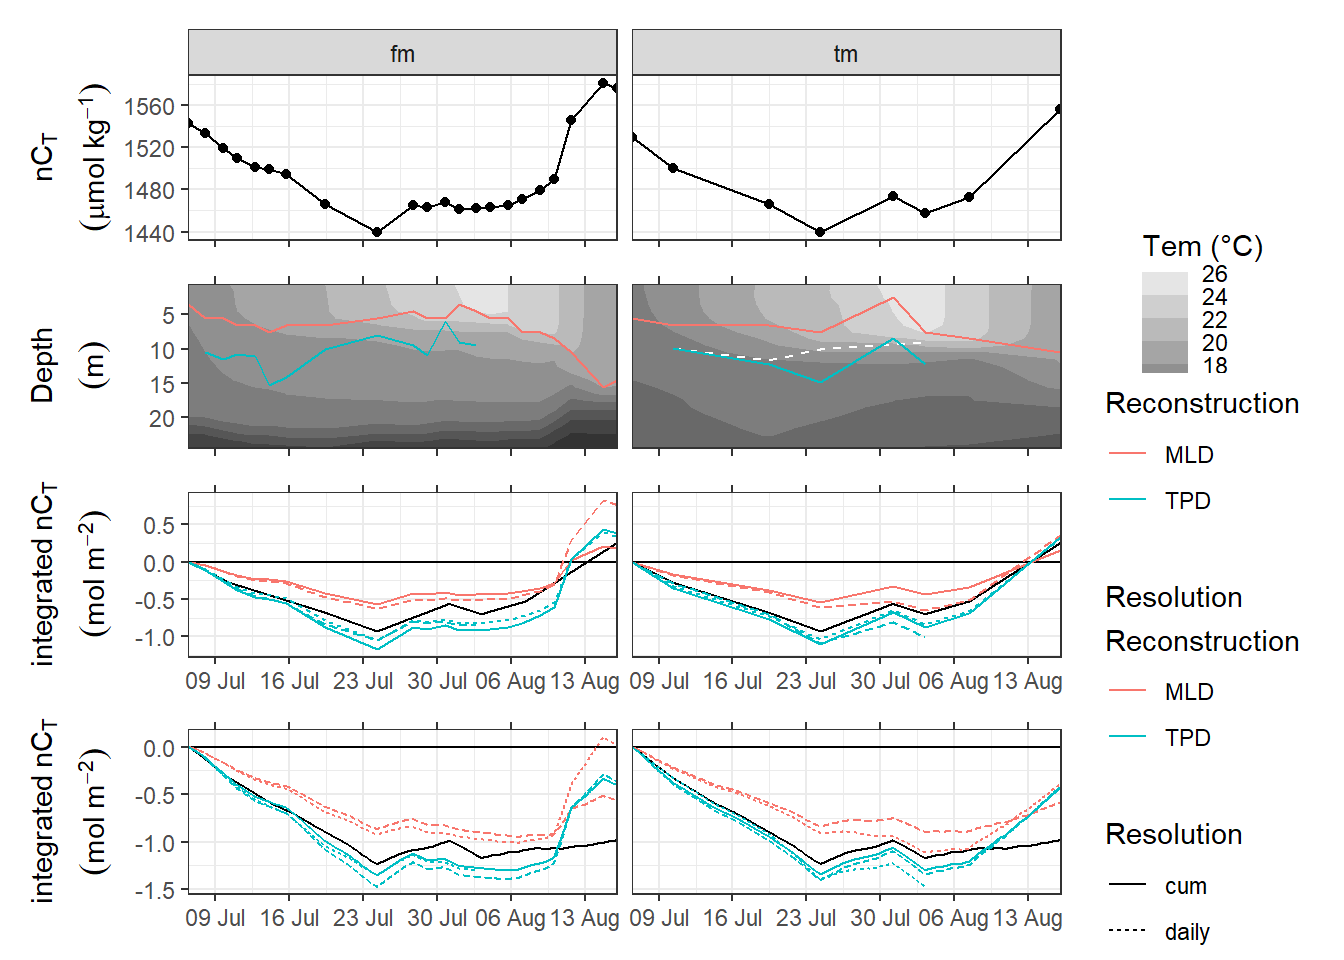
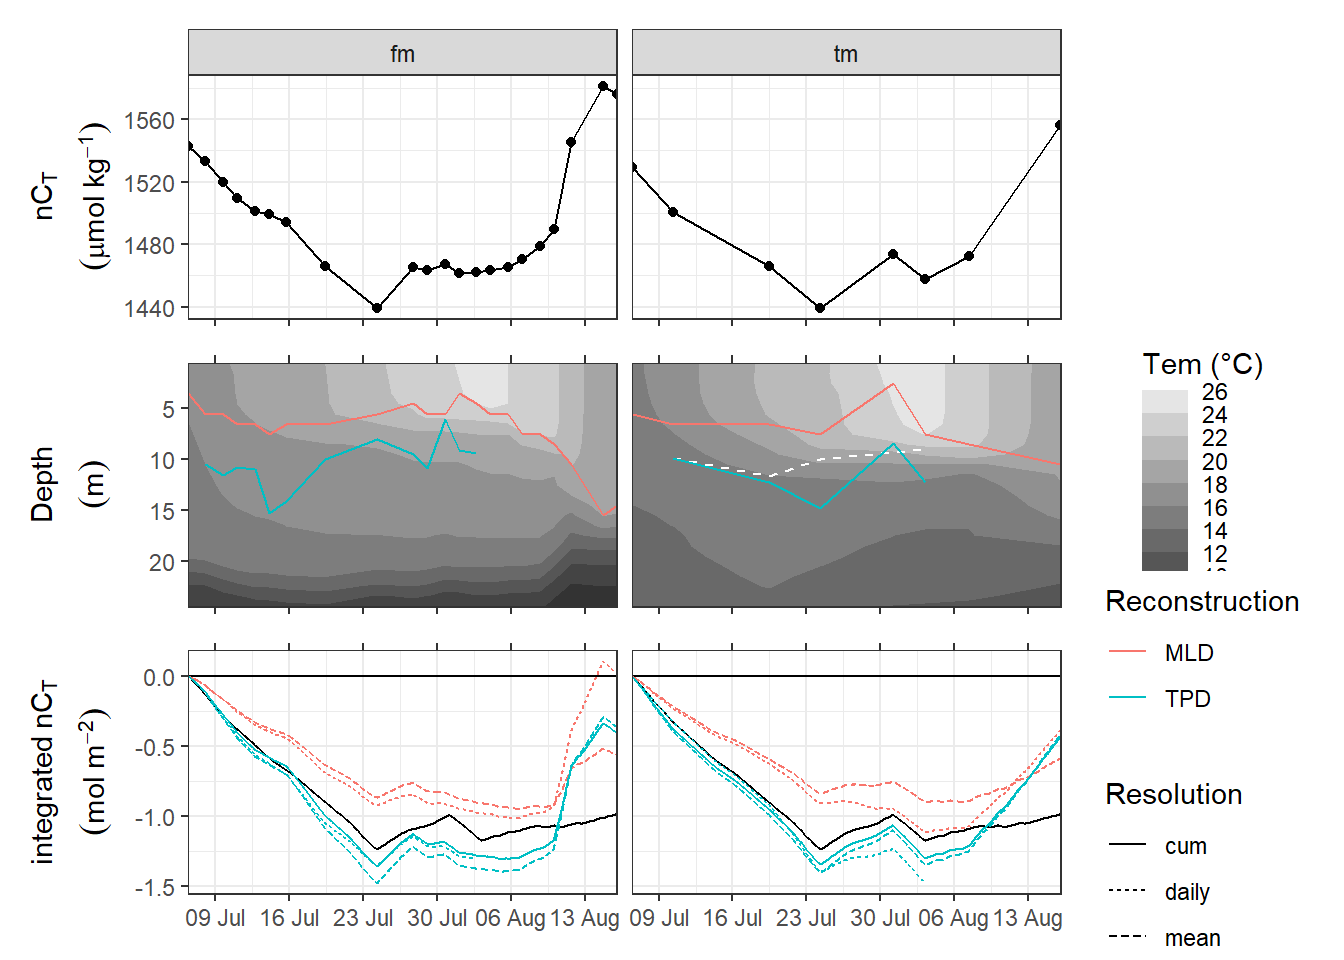
Build site.

diff --git a/docs/NCP_reconstruction.html b/docs/NCP_reconstruction.html
@@ -564,16 +564,16 @@ This reproducible <a href="http://rmarkdown.rstudio.com">R Markdown</a> analysis
 <div class="panel panel-default">
 <div class="panel-heading">
 <p class="panel-title">
-<a data-toggle="collapse" data-parent="#workflowr-checks" href="#strongRepositoryversionstrongahrefhttpsgithubcomjensdanielmuellerBloomSailtreef7f098369f99d493fd68258d57643284ace4dbb0targetblankf7f0983a"> <span class="glyphicon glyphicon-ok text-success" aria-hidden="true"></span> <strong>Repository version:</strong> <a href="https://github.com/jens-daniel-mueller/BloomSail/tree/f7f098369f99d493fd68258d57643284ace4dbb0" target="_blank">f7f0983</a> </a>
+<a data-toggle="collapse" data-parent="#workflowr-checks" href="#strongRepositoryversionstrongahrefhttpsgithubcomjensdanielmuellerBloomSailtree2b97ae38d2cd26413b1a712a8c90a49293a928b8targetblank2b97ae3a"> <span class="glyphicon glyphicon-ok text-success" aria-hidden="true"></span> <strong>Repository version:</strong> <a href="https://github.com/jens-daniel-mueller/BloomSail/tree/2b97ae38d2cd26413b1a712a8c90a49293a928b8" target="_blank">2b97ae3</a> </a>
 </p>
 </div>
[2 lines of base64/hex data omitted]
 <div class="panel-body">
 <p>
 Great! You are using Git for version control. Tracking code development and connecting the code version to the results is critical for reproducibility.
 </p>
 <p>
-The results in this page were generated with repository version <a href="https://github.com/jens-daniel-mueller/BloomSail/tree/f7f098369f99d493fd68258d57643284ace4dbb0" target="_blank">f7f0983</a>. See the <em>Past versions</em> tab to see a history of the changes made to the R Markdown and HTML files.
+The results in this page were generated with repository version <a href="https://github.com/jens-daniel-mueller/BloomSail/tree/2b97ae38d2cd26413b1a712a8c90a49293a928b8" target="_blank">2b97ae3</a>. See the <em>Past versions</em> tab to see a history of the changes made to the R Markdown and HTML files.
 </p>
 <p>
 Note that you need to be careful to ensure that all relevant files for the analysis have been committed to Git prior to generating the results (you can use <code>wflow_publish</code> or <code>wflow_git_commit</code>). workflowr only checks the R Markdown file, but you know if there are other scripts or data files that it depends on. Below is the status of the Git repository when the results were generated:
@@ -596,7 +596,8 @@ Untracked files:
     Untracked:  output/Plots/Figures_publication/Appendix/Phytoplankton_mean_total_biomass.pdf
     Untracked:  output/Plots/Figures_publication/Appendix/TPD_CPD_cumulative.pdf
     Untracked:  output/Plots/Figures_publication/Appendix/tb_profiles.pdf
-    Untracked:  output/Plots/Figures_publication/Article/reconstruction_timeseries.pdf
+    Untracked:  output/Plots/Figures_publication/Article/reconstruction_NCP_timeseries.pdf
+    Untracked:  output/Plots/Figures_publication/Article/reconstruction_iCT_timeseries.pdf
 
 </code></pre>
 <p>
@@ -635,6 +636,40 @@ Message
 </tr>
 </thead>
 <tbody>
+<tr>
+<td>
+Rmd
+</td>
+<td>
+<a href="https://github.com/jens-daniel-mueller/BloomSail/blob/2b97ae38d2cd26413b1a712a8c90a49293a928b8/analysis/NCP_reconstruction.Rmd" target="_blank">2b97ae3</a>
+</td>
+<td>
+jens-daniel-mueller
+</td>
+<td>
+2020-05-25
+</td>
+<td>
+added gas flux to reconstructed iCT
+</td>
+</tr>
+<tr>
+<td>
+html
+</td>
+<td>
+<a href="https://rawcdn.githack.com/jens-daniel-mueller/BloomSail/4dd0f4f7a104f03b69354203efd4c3ae7f8ce8c0/docs/NCP_reconstruction.html" target="_blank">4dd0f4f</a>
+</td>
+<td>
+jens-daniel-mueller
+</td>
+<td>
+2020-05-25
+</td>
+<td>
+Build site.
+</td>
+</tr>
 <tr>
 <td>
 Rmd
@@ -2055,7 +2090,7 @@ p_NCP &lt;- NCP_flux_int %&gt;%
         strip.text.x = element_blank(),
         axis.text.x.top = element_blank())
 
-p_nCT / p_hov_dep / p_iCT / p_NCP</code></pre>
+p_nCT / p_hov_dep / p_NCP</code></pre>
 <p><img src="figure/NCP_reconstruction.Rmd/NCP_time_series-1.png" width="672" style="display: block; margin: auto;" /></p>
 <pre class="r"><code>ggsave(here::here(&quot;output/Plots/Figures_publication/article&quot;, &quot;reconstruction_NCP_timeseries.pdf&quot;),
        width = 210, height = 220, dpi = 300, units = &quot;mm&quot;)</code></pre>
